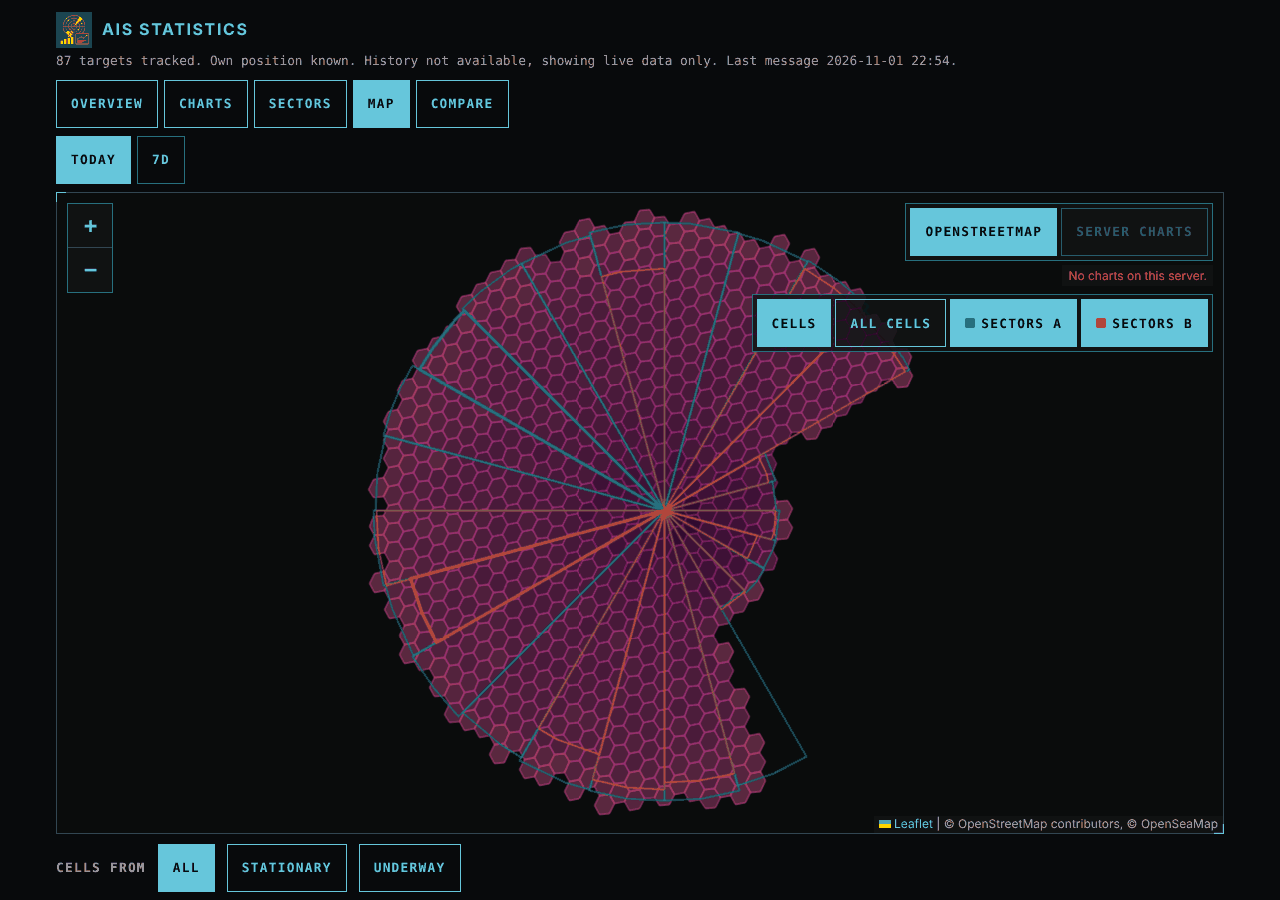
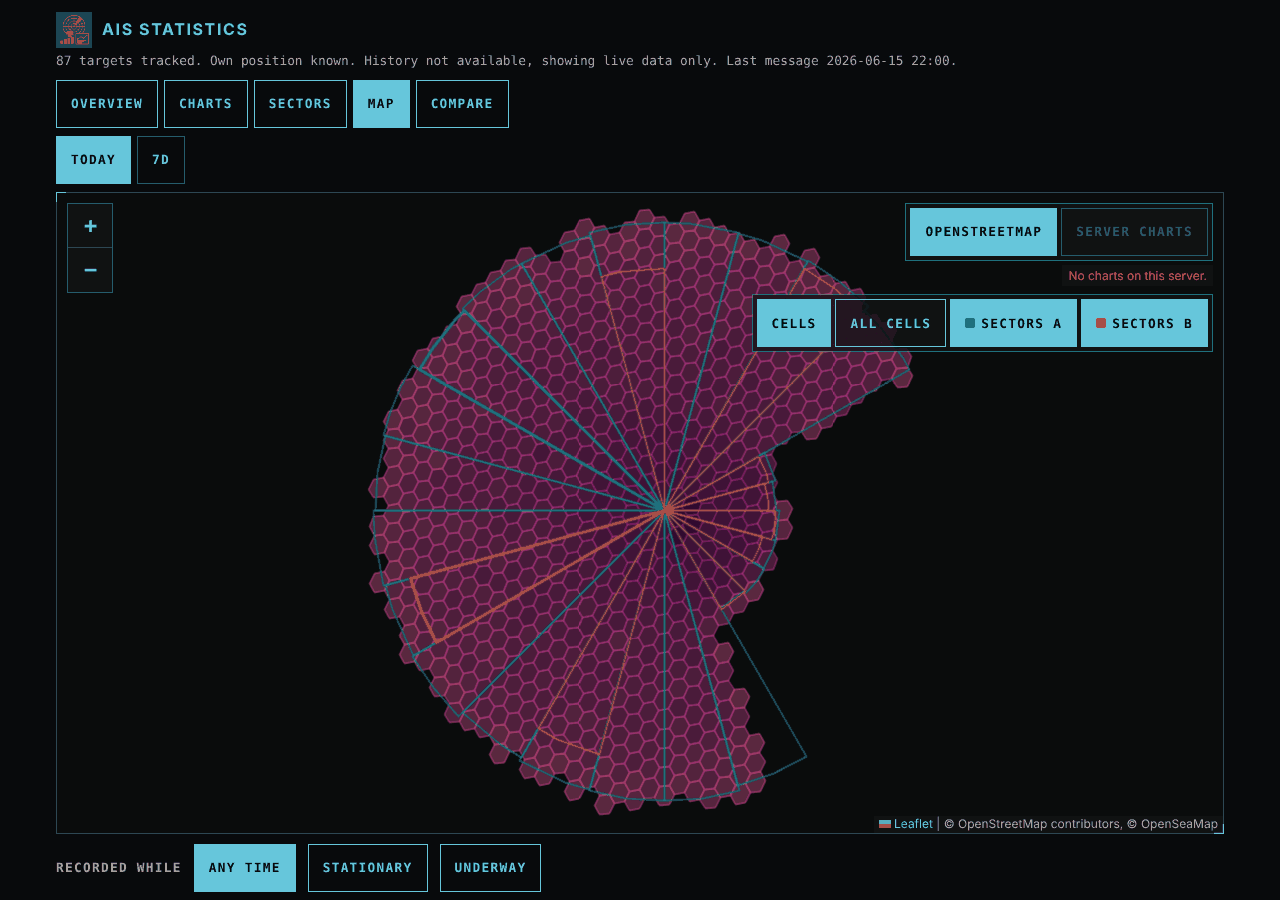
Take the screenshots on a fixed clock and add the compare view
The screenshots followed the wall clock, so a morning run showed a map
with only a few hours of today's coverage, and the map shot still showed
the selector under its earlier name. The script now runs the plugin and
the browser on a fixed evening, so every run gives the same picture.

The compare view (#14) had no screenshot. It is added to the README and
to the App Store listing (signalk.screenshots), comparing two busy
morning windows of 6 hours.

Refs #20

diff --git a/README.md b/README.md
@@ -124,6 +124,8 @@ figure and both sector charts on one scale. Coverage is kept per day, so
 it is compared when the change is at midnight UTC and the windows are
 whole days.
 
+![Compare](docs/screenshots/compare.png)
+
 ## Live settings
 
 A few settings are easiest to judge while watching their effect, so the
